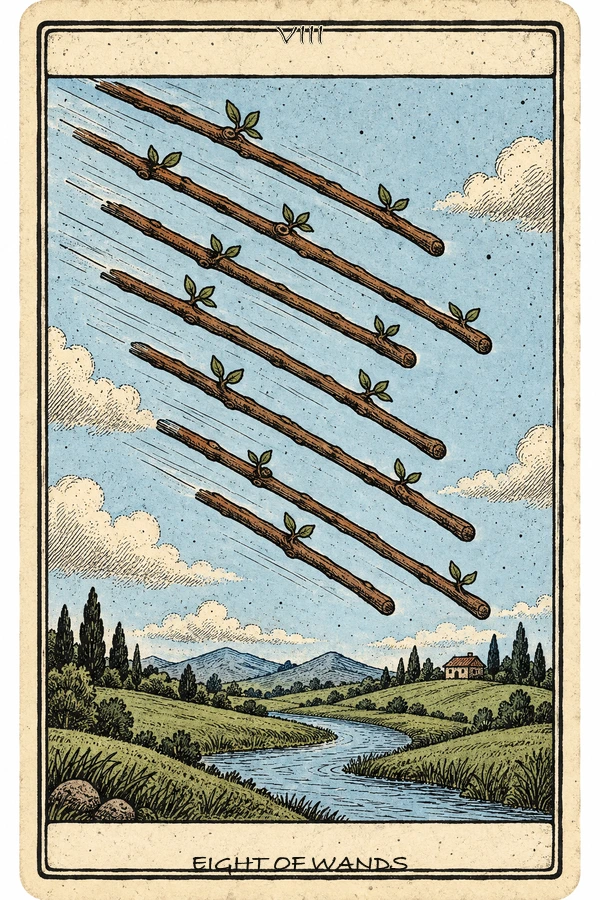
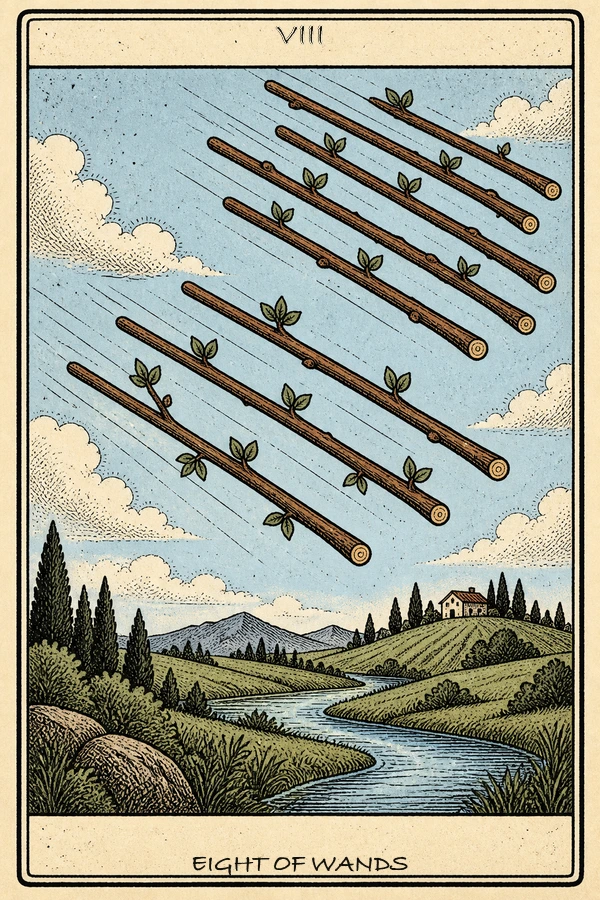
Keep the whole shuffling table inside one short screen
Màn xào bài là một cột dựng đứng không cắt được khúc nào: chữ, cỗ bài, dòng
nhắc, rồi cái nút. Laptop 13" bật thêm thanh dấu trang là khung nhìn còn quãng
650px, và cái nút ở đáy cột rơi xuống dưới mép màn mà chẳng có gì báo cho người
rút biết dưới đó còn thứ để kéo.

Thêm biến thể man-thap trong globals.css, từ md trở lên và cao tối đa 45rem —
dưới md thì trang cuộn bình thường nên bóp cũng chẳng để làm gì.

ShuffleRitual rút lề trên dưới hai nấc, một nấc ở md và một nấc nữa ở man-thap,
áp cho cả khung ngoài, cỗ bài, cái nút và dòng "Xào và cắt giúp tôi". Bề cao
khung cỗ hạ xuống thì --deck-top nhấc lên theo, vì quãng dưới cỗ không phải chỗ
trống mà là chỗ chừa cho cú kéo dọc: kéo hết cỡ tệp bài xuống tới 341px, khổ
nào cũng phải còn hơn bấy nhiêu.

Kèm một bản Tám Gậy vẽ lại, thay bản đi trong b4c0097.

Tranh và code đều của Huy, mình chỉ commit hộ nên không ghi Claude vào
Co-Authored-By.

diff --git a/web/src/components/reading/ShuffleRitual.tsx b/web/src/components/reading/ShuffleRitual.tsx
@@ -1045,8 +1045,13 @@ export function ShuffleRitual({ deck, seed, onDone }: ShuffleRitualProps) {
 
       min-h chứ không phải h: màn thấp hơn nội dung thì khung tự nở ra, không có
       chuyện canh giữa rồi phần trên trôi khỏi màn mà không kéo tới được.
+
+      Nở ra được nhưng nở ra là hỏng: cả cột này phải nằm gọn trong một khung
+      nhìn, vì cái nút nằm ở đáy cột mà chẳng có gì báo cho người rút biết là
+      dưới đó còn thứ để kéo xuống. Nên máy rộng thì lề trên dưới rút bớt, màn
+      thấp thì rút thêm lần nữa — xem man-thap trong globals.css.
     */
-    <div className="mx-auto flex w-full max-w-[720px] flex-col px-5 pt-6 pb-10 md:min-h-[calc(100svh-77px)] md:justify-center md:px-0">
+    <div className="mx-auto flex w-full max-w-[720px] flex-col px-5 pt-6 pb-10 md:min-h-[calc(100svh-77px)] md:justify-center md:px-0 md:pt-4 md:pb-6 man-thap:pt-3 man-thap:pb-3">
       {/*
         Căn phòng đứng suốt từ đây sang bàn bài nên nó không mờ đi cùng với chữ:
         rời màn xào là rời cái bàn, không phải rời căn phòng. Bàn bài dựng lại
@@ -1106,11 +1111,16 @@ export function ShuffleRitual({ deck, seed, onDone }: ShuffleRitualProps) {
           giữ một con số riêng, dịch cỗ bài đi một nhịp là phải nhớ sửa cả ba.
           Máy rộng thì hạ cỗ xuống một quãng cho nó ngồi vào giữa bàn chứ không
           dán lên mép trên.
+
+          Bề cao khung là quãng chừa cho cú kéo dọc chứ không phải chỗ trống:
+          kéo hết cỡ thì tệp bài xuống tới 341px dưới chỗ cỗ đứng. Nên hạ trần
+          khung là phải nhấc cỗ lên đúng bấy nhiêu, giữ nguyên quãng ở dưới —
+          khổ nào cũng còn thừa hơn chục px so với chỗ tệp chạm tới.
         */
-        className={`relative mx-auto mt-6 w-full max-w-[360px] touch-none select-none md:max-w-[520px] ${
+        className={`relative mx-auto mt-6 w-full max-w-[360px] touch-none select-none md:mt-4 md:max-w-[520px] man-thap:mt-3 ${
           phase === "auto"
-            ? "h-[384px] [--deck-top:78px] md:h-[432px] md:[--deck-top:104px]"
-            : "h-[352px] [--deck-top:10px] md:h-[400px] md:[--deck-top:36px]"
+            ? "h-[384px] [--deck-top:78px] md:h-[416px] md:[--deck-top:88px] man-thap:h-[400px] man-thap:[--deck-top:72px]"
+            : "h-[352px] [--deck-top:10px] md:h-[376px] md:[--deck-top:20px] man-thap:h-[360px] man-thap:[--deck-top:8px]"
         } ${
           cutting || leaving || phase === "auto"
             ? "cursor-default"
@@ -1291,7 +1301,7 @@ export function ShuffleRitual({ deck, seed, onDone }: ShuffleRitualProps) {
           tới hết, mờ đi thì phải mờ ở lớp ngoài chứ đặt lên chính nó thì hoạt
           cảnh đè mất.
         */
-        <div className={`mt-8 self-center ${xoaChu}`}>
+        <div className={`mt-8 self-center md:mt-5 man-thap:mt-3 ${xoaChu}`}>
           <button
             type="button"
             onClick={leave}
@@ -1306,7 +1316,7 @@ export function ShuffleRitual({ deck, seed, onDone }: ShuffleRitualProps) {
           type="button"
           onClick={() => setPhase("auto")}
           disabled={cutting > 0}
-          className={`mt-8 self-center text-[13.5px] text-muted underline underline-offset-4 transition-colors hover:text-gold-hi disabled:opacity-50 ${xoaChu}`}
+          className={`mt-8 self-center text-[13.5px] text-muted underline underline-offset-4 transition-colors hover:text-gold-hi disabled:opacity-50 md:mt-5 man-thap:mt-3 ${xoaChu}`}
         >
           Xào và cắt giúp tôi
         </button>

diff --git a/web/src/app/globals.css b/web/src/app/globals.css
@@ -1,5 +1,16 @@
 @import "tailwindcss";
 
+/*
+ * Màn thấp. Laptop 13" bật thêm thanh dấu trang là khung nhìn chỉ còn quãng
+ * 650px, mà màn xào bài là một cột dựng đứng không cắt được khúc nào: chữ, cỗ
+ * bài, dòng nhắc, rồi cái nút. Không bóp lại thì dòng nhắc với cái nút rơi
+ * xuống dưới mép màn, người rút nhìn lên tưởng màn này chỉ có mỗi cỗ bài.
+ *
+ * Chỉ tính từ md trở lên: dưới đó trang cuộn được bình thường, có bóp cũng
+ * chẳng để làm gì.
+ */
+@custom-variant man-thap (@media (min-width: 48rem) and (max-height: 45rem));
+
 @theme {
   --color-deep: #080b13;
   --color-bg: #0b0f1a;
